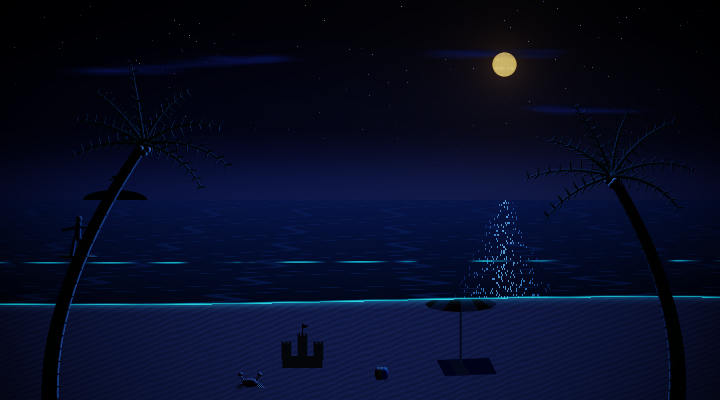
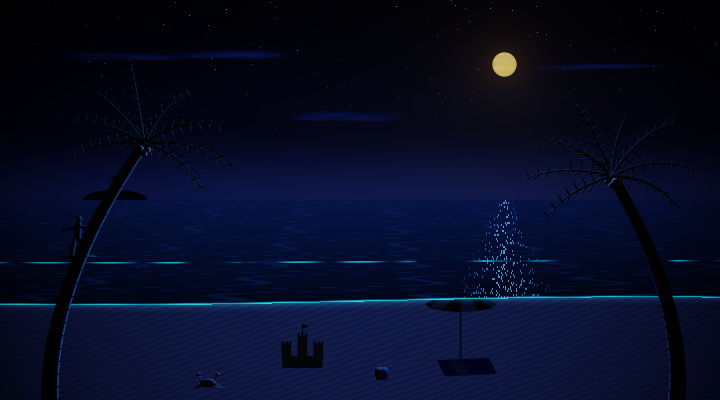
Seed dev renders and add a screenshot freshness check

diff --git a/dev/screenshots.ts b/dev/screenshots.ts
@@ -1,0 +1,52 @@
+// Re-renders the README gallery (teeming at 45 s via dev/snap.ts) and fails if any screenshot differs from the
+// committed one beyond a tiny tolerance; --update writes the fresh renders instead: bun dev/screenshots.ts [--update]
+import { availableParallelism } from "node:os"
+import { TIMES } from "../src/engine"
+import { WALLPAPERS } from "../wallpapers"
+import { decodePng } from "./png"
+
+const update = process.argv.includes("--update")
+const shots = WALLPAPERS.flatMap((w) => TIMES.map((time) => ({ id: w.id, time, file: `screenshots/${w.id}${time === "day" ? "" : `-${time}`}.png` })))
+const queue = [...shots]
+const stale: string[] = []
+await Promise.all(
+  Array.from({ length: availableParallelism() }, async () => {
+    for (let shot = queue.shift(); shot; shot = queue.shift()) {
+      const snap = Bun.spawn(["bun", "dev/snap.ts", shot.id, "teeming", shot.time, "45"], { stdout: "ignore" })
+      if (await snap.exited) throw new Error(`dev/snap.ts ${shot.id} teeming ${shot.time} 45 failed`)
+      const fresh = await Bun.file(`dev/out/${shot.id}-teeming-${shot.time}-45s.png`).bytes()
+      if (update) {
+        await Bun.write(shot.file, fresh)
+        continue
+      }
+      const committed = Bun.file(shot.file)
+      if (!(await committed.exists())) {
+        stale.push(`${shot.file}: missing`)
+        continue
+      }
+      const a = decodePng(fresh)
+      const b = decodePng(await committed.bytes())
+      if (a.width !== b.width || a.height !== b.height) {
+        stale.push(`${shot.file}: ${b.width}x${b.height}, expected ${a.width}x${a.height}`)
+        continue
+      }
+      // Renders are byte-identical on macOS arm64 and Linux x64; the slack only absorbs rounding drift from other
+      // platforms' Math functions or Bun versions.
+      let differ = 0
+      for (let p = 0; p < a.rgba.length; p += 4) {
+        if (Math.max(Math.abs(a.rgba[p] - b.rgba[p]), Math.abs(a.rgba[p + 1] - b.rgba[p + 1]), Math.abs(a.rgba[p + 2] - b.rgba[p + 2])) > 2) differ++
+      }
+      if (differ > a.width * a.height * 0.0001) stale.push(`${shot.file}: ${differ} pixels differ`)
+    }
+  }),
+)
+if (update) {
+  console.log(`wrote ${shots.length} screenshots`)
+  process.exit(0)
+}
+if (!stale.length) {
+  console.log(`${shots.length} screenshots up to date`)
+  process.exit(0)
+}
+console.log(`${stale.sort().join("\n")}\nstale screenshots: run bun dev/screenshots.ts --update and commit the result (fresh renders are in dev/out)`)
+process.exit(1)

diff --git a/dev/png.ts b/dev/png.ts
@@ -1,4 +1,4 @@
-import { deflateSync } from "node:zlib"
+import { deflateSync, inflateSync } from "node:zlib"
 
 const table = new Uint32Array(256).map((_, n) => {
   let c = n
@@ -42,4 +42,23 @@ export function encodePng(rgba: Uint8Array, width: number, height: number) {
     o += p.length
   }
   return png
+}
+
+// Decodes the PNGs encodePng writes: 8-bit RGBA, unfiltered rows.
+export function decodePng(png: Uint8Array) {
+  const view = new DataView(png.buffer, png.byteOffset, png.byteLength)
+  const width = view.getUint32(16)
+  const height = view.getUint32(20)
+  if (png[24] !== 8 || png[25] !== 6) throw new Error("only 8-bit RGBA PNGs are supported")
+  const idat: Uint8Array[] = []
+  for (let o = 8; o < png.length; o += 12 + view.getUint32(o)) {
+    if (new TextDecoder().decode(png.subarray(o + 4, o + 8)) === "IDAT") idat.push(png.subarray(o + 8, o + 8 + view.getUint32(o)))
+  }
+  const raw = inflateSync(Buffer.concat(idat))
+  const rgba = new Uint8Array(width * height * 4)
+  for (let y = 0; y < height; y++) {
+    if (raw[y * (width * 4 + 1)] !== 0) throw new Error("only unfiltered PNG rows are supported")
+    rgba.set(raw.subarray(y * (width * 4 + 1) + 1, (y + 1) * (width * 4 + 1)), y * width * 4)
+  }
+  return { rgba, width, height }
 }

diff --git a/dev/seed.ts b/dev/seed.ts
@@ -1,0 +1,13 @@
+// Replaces Math.random with a seeded generator (mulberry32) so dev renders are reproducible. Import it before anything
+// that draws random numbers.
+let state = 1
+Math.random = () => {
+  state = (state + 0x6d2b79f5) | 0
+  let t = Math.imul(state ^ (state >>> 15), 1 | state)
+  t = (t + Math.imul(t ^ (t >>> 7), 61 | t)) ^ t
+  return ((t ^ (t >>> 14)) >>> 0) / 4294967296
+}
+
+export function seed(n: number) {
+  state = n | 0
+}

diff --git a/dev/snap.ts b/dev/snap.ts
@@ -1,5 +1,6 @@
 // Renders a wallpaper's scene directly (no terminal conversion) to PNGs at the given scene times in seconds:
 // bun dev/snap.ts <wallpaper> [calm|lively|teeming] [day|sunset|night] [seconds...]
+import "./seed"
 import { mkdirSync } from "node:fs"
 import { ACTIVITIES, TIMES } from "../src/engine"
 import { WALLPAPERS } from "../wallpapers"
